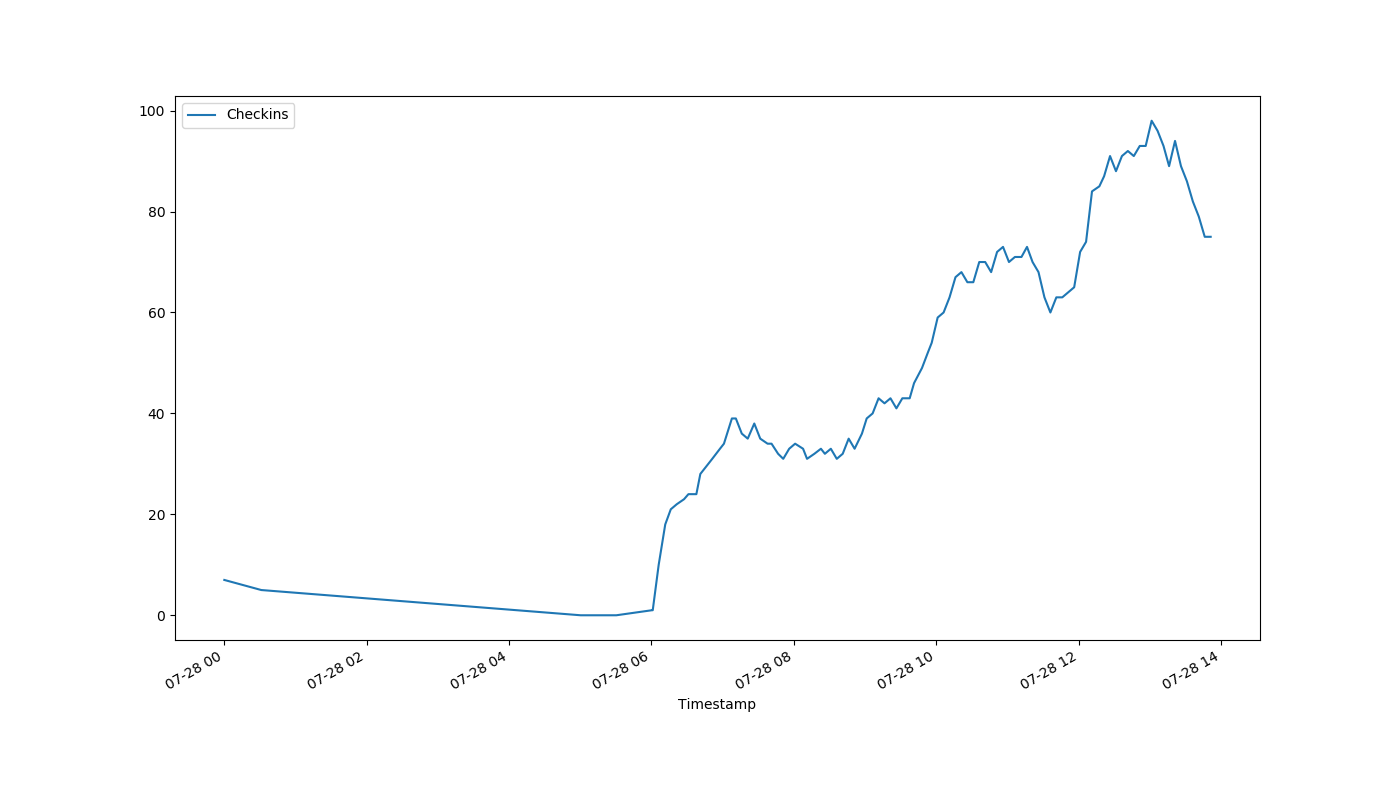
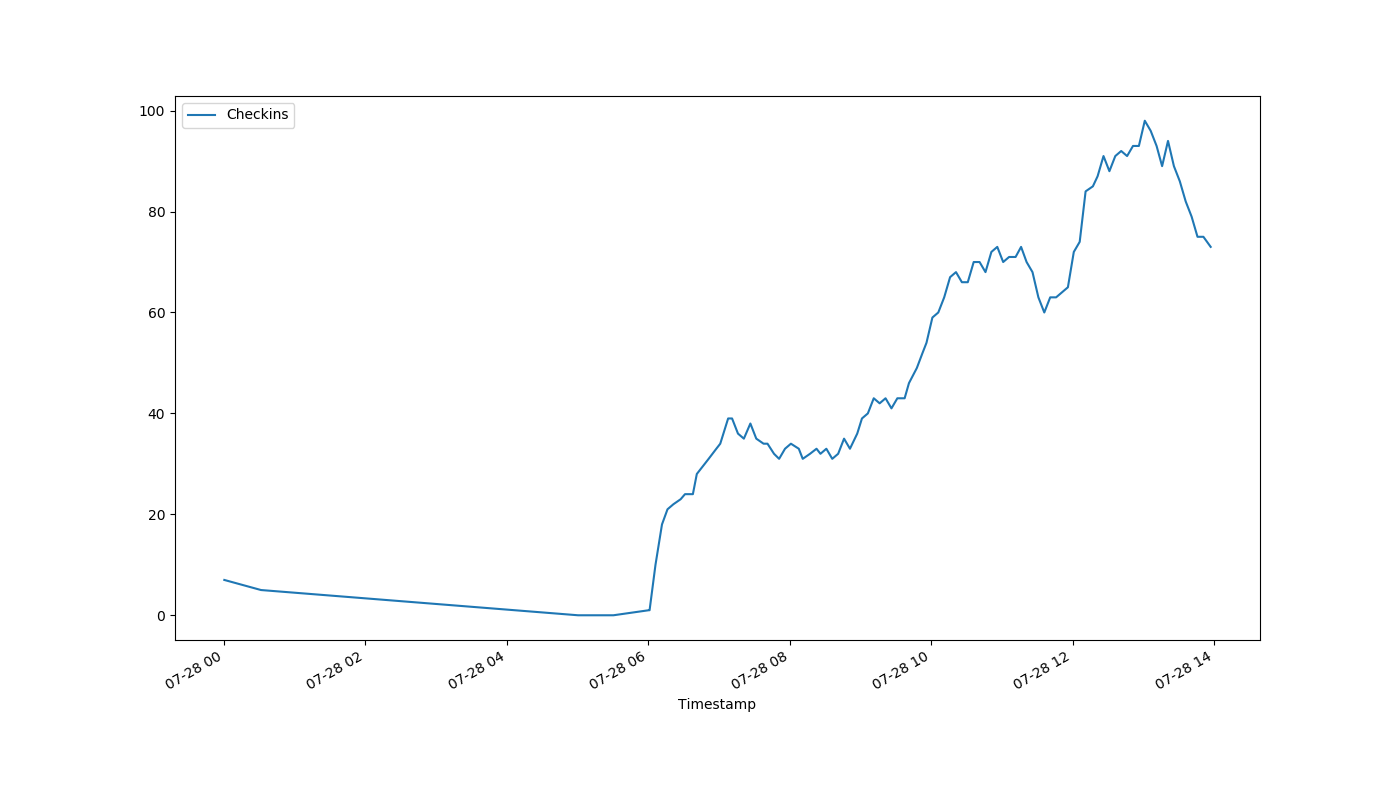
auto-Jul-28-13:58:36

diff --git a/index.html b/index.html
@@ -1,1 +1,1 @@
-<!DOCTYPE html><html><head><meta http-equiv="refresh" content="30"><link rel='stylesheet' href='holmcurrent.css'></head><body><p id='count'>75</p><div id='graph-wrap'><img id='graph' src='holmgraph-Jul-28.png'></div><p id='updated'>Last updated 13:51:04 / 13:51:02</p></body></html>
+<!DOCTYPE html><html><head><meta http-equiv="refresh" content="30"><link rel='stylesheet' href='holmcurrent.css'></head><body><p id='count'>73</p><div id='graph-wrap'><img id='graph' src='holmgraph-Jul-28.png'></div><p id='updated'>Last updated 13:58:04 / 13:57:13</p></body></html>
